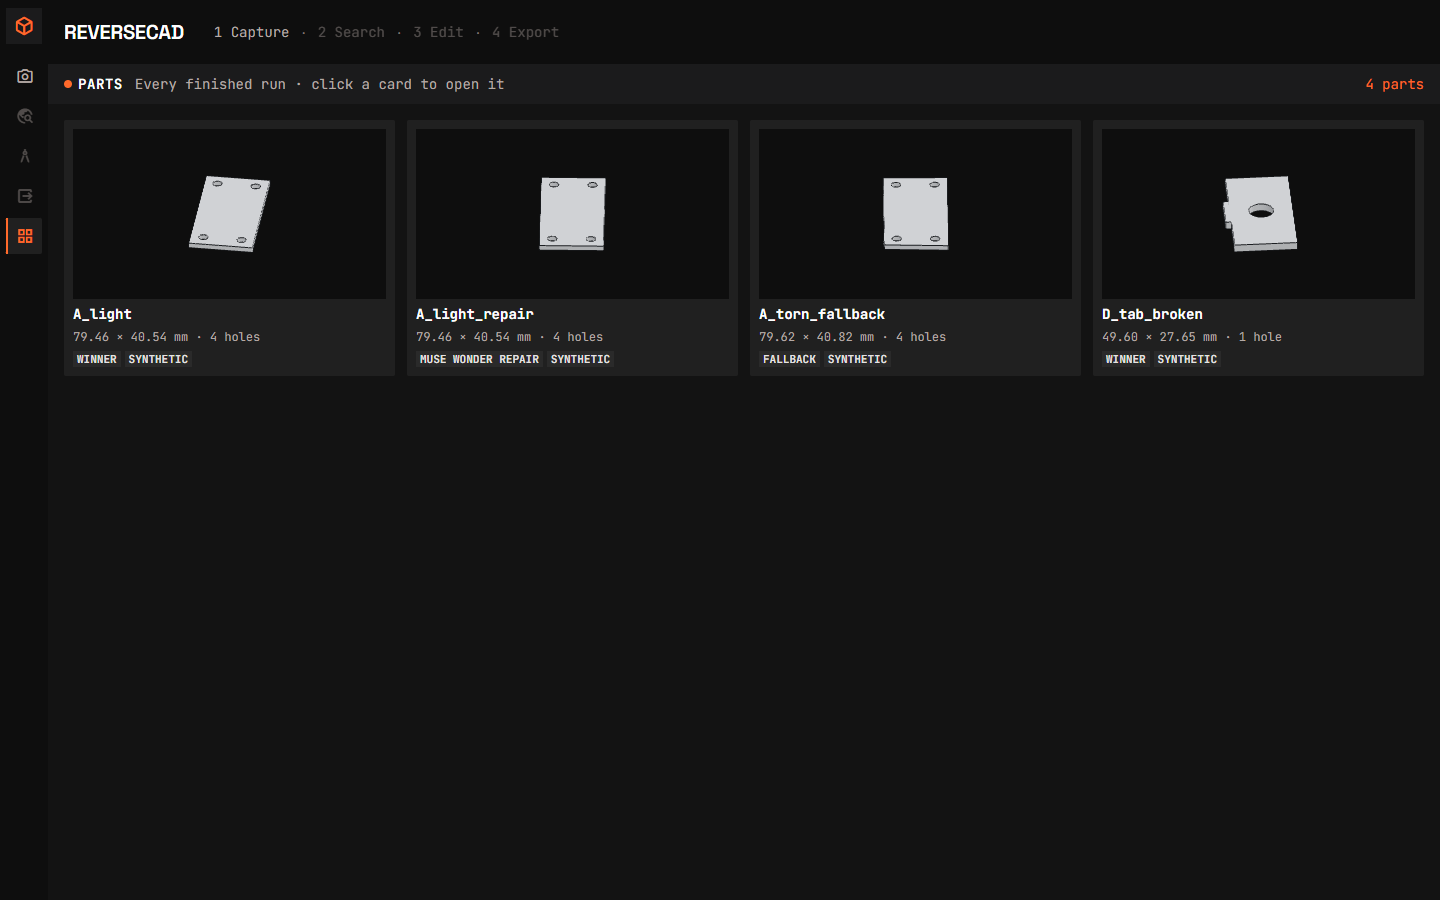
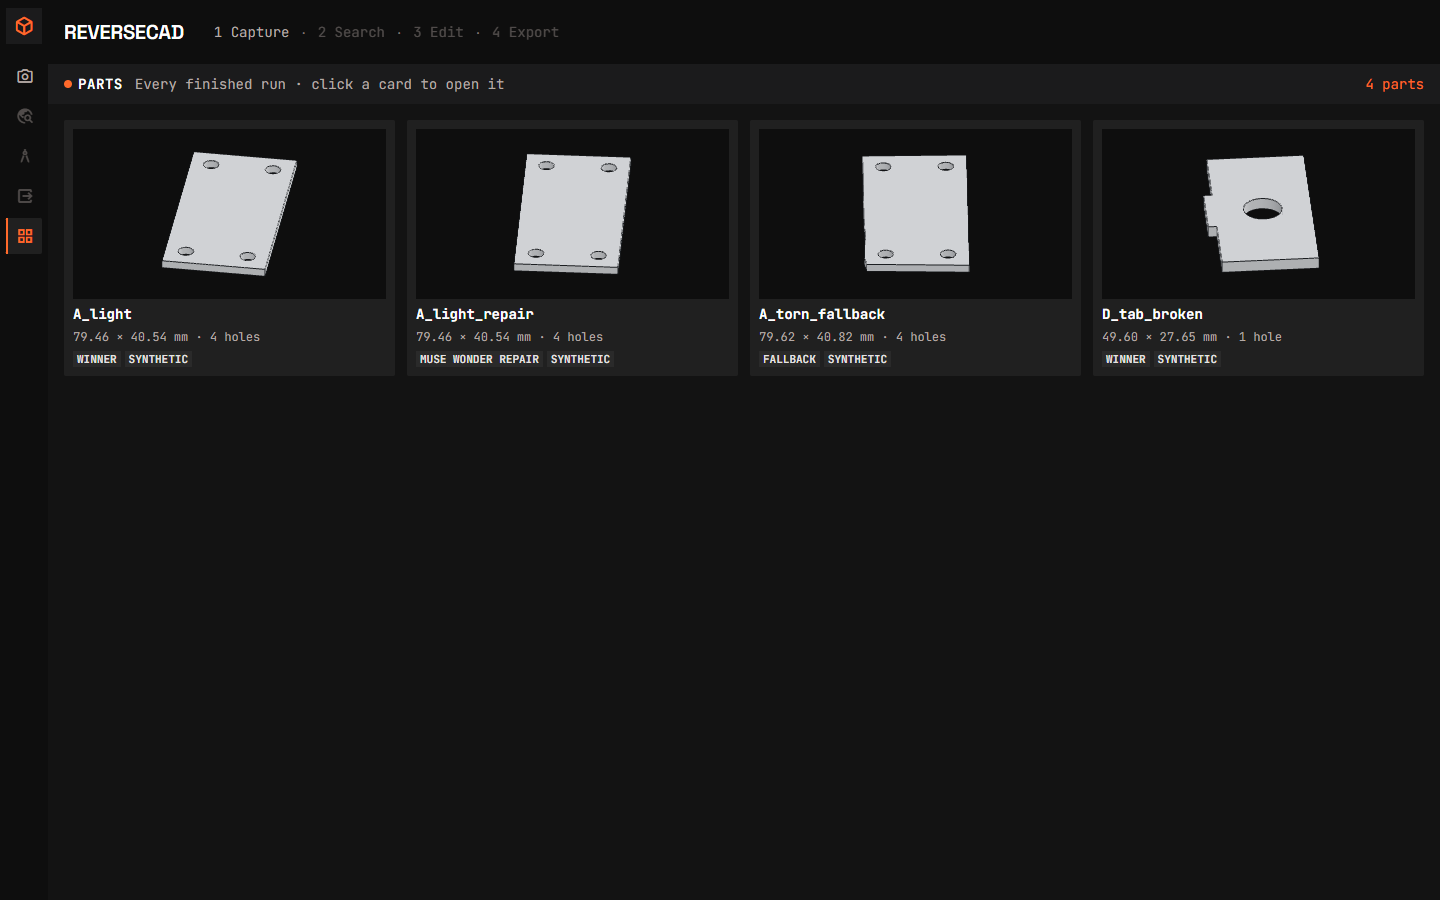
[muse-code] Gallery fixes: public.txt opt-in for live runs, 80% turntable framing

diff --git a/webapp/static/viewer.js b/webapp/static/viewer.js
@@ -354,15 +354,44 @@ export function createTurntable(container) {
   let part = null;
   let center = new THREE.Vector3();
   let radius = 1;
+  let frame = null;  // largest projected half-extents of the bounding box over a revolution
   let visible = true;
   const t0 = performance.now();
   const api = { show, setVisible, resize, dispose, tick };
+
+  function measureFrame() {
+    // How large the bounding box ever appears while the camera circles it: project its
+    // corners at 16 angles and keep the largest half-width (hw) and half-height (hh).
+    const box = new THREE.Box3().setFromObject(part);
+    const corners = [];
+    for (const x of [box.min.x, box.max.x])
+      for (const y of [box.min.y, box.max.y])
+        for (const z of [box.min.z, box.max.z]) corners.push(new THREE.Vector3(x, y, z).sub(center));
+    const probe = new THREE.OrthographicCamera(-1, 1, 1, -1, -5000, 5000);
+    probe.up.set(0, 0, 1);
+    const corner = new THREE.Vector3();
+    let hw = 0;
+    let hh = 0;
+    for (let i = 0; i < 16; i++) {
+      probe.position.copy(center).addScaledVector(
+        ISO.clone().applyAxisAngle(new THREE.Vector3(0, 0, 1), (i / 16) * Math.PI * 2), radius * 4);
+      probe.lookAt(center);
+      probe.updateMatrixWorld();
+      for (const offset of corners) {
+        corner.copy(offset).applyMatrix4(probe.matrixWorldInverse);
+        hw = Math.max(hw, Math.abs(corner.x));
+        hh = Math.max(hh, Math.abs(corner.y));
+      }
+    }
+    frame = { hw, hh };
+  }
 
   function fit() {
     const width = container.clientWidth || 300;
     const height = container.clientHeight || 170;
     renderer.setSize(width, height);
-    const half = radius * 1.2;  // air around the part; no labels to fit
+    // The widest projected extent fills 80% of the preview; nothing clips at any angle.
+    const half = Math.max(frame.hh, (frame.hw * height) / width) / 0.8;
     Object.assign(camera, { left: -half * width / height, right: half * width / height, top: half, bottom: -half });
     camera.updateProjectionMatrix();
   }
@@ -387,6 +416,7 @@ export function createTurntable(container) {
     center = box.getCenter(new THREE.Vector3());
     radius = box.getSize(new THREE.Vector3()).length() / 2;
     scene.add(part);
+    measureFrame();
     fit();
     render(performance.now());
     pokeTurntables();

diff --git a/tests/test_gallery.py b/tests/test_gallery.py
@@ -11,7 +11,7 @@ from webapp.server import app
 TABLE = {"outline": {"length_mm": 80.0, "width_mm": 40.0}, "holes": [{}, {}, {}]}
 
 
-def _write_run(folder, source="candidate", private=False, summary=True):
+def _write_run(folder, source="candidate", private=False, public=False, summary=True):
     folder.mkdir(parents=True)
     (folder / "3_measurements.json").write_text(json.dumps({"table": TABLE}), encoding="utf-8")
     if summary:
@@ -20,6 +20,8 @@ def _write_run(folder, source="candidate", private=False, summary=True):
                         "result_source": source}), encoding="utf-8")
     if private:
         (folder / "private.txt").write_text("Private: test marker\n", encoding="utf-8")
+    if public:
+        (folder / "public.txt").write_text("Public: test marker\n", encoding="utf-8")
 
 
 def test_card_fields_come_from_saved_files(tmp_path, monkeypatch):
@@ -41,8 +43,33 @@ def test_source_labels(tmp_path, monkeypatch):
 
 def test_live_name_means_real_photo(tmp_path, monkeypatch):
     monkeypatch.setattr(replay, "SOURCES", [tmp_path])
-    _write_run(tmp_path / "live-20990101-000000-abcdef")
+    _write_run(tmp_path / "live-20990101-000000-abcdef", public=True)
     assert gallery.card("live-20990101-000000-abcdef")["kind"] == "Real photo"
+
+
+def test_live_run_needs_public_marker(tmp_path, monkeypatch):
+    """Privacy is opt-in: a local upload without public.txt stays out of the gallery."""
+    monkeypatch.setattr(replay, "SOURCES", [tmp_path])
+    _write_run(tmp_path / "live-20990101-000000-abcdef")
+    _write_run(tmp_path / "live-20990102-000000-abcdef", public=True)
+    assert gallery.card("live-20990101-000000-abcdef") is None
+    assert gallery.card("live-20990102-000000-abcdef")["kind"] == "Real photo"
+    assert [c["name"] for c in gallery.gallery_runs()] == ["live-20990102-000000-abcdef"]
+
+
+def test_private_wins_over_public(tmp_path, monkeypatch):
+    """Both markers: the run stays out."""
+    monkeypatch.setattr(replay, "SOURCES", [tmp_path])
+    _write_run(tmp_path / "live-20990101-000000-abcdef", private=True, public=True)
+    assert gallery.card("live-20990101-000000-abcdef") is None
+    assert gallery.gallery_runs() == []
+
+
+def test_template_run_needs_no_marker(tmp_path, monkeypatch):
+    """A local template-scene run (not live-*) shows without any marker."""
+    monkeypatch.setattr(replay, "SOURCES", [tmp_path])
+    _write_run(tmp_path / "plate")
+    assert gallery.card("plate")["kind"] == "Synthetic"
 
 
 def test_private_marker_excludes(tmp_path, monkeypatch):

diff --git a/webapp/gallery.py b/webapp/gallery.py
@@ -1,10 +1,12 @@
 """Parts gallery: every finished run as a card (GET /api/parts).
 
-Samples are always listed; local runs too, unless their folder holds a private.txt
-marker (a photo from data/private/ must never appear in the gallery). In demo mode
-this is samples-only, because the server narrows replay.SOURCES to samples/.
-New run folders show up with no code changes. Only values saved in the run are
-shown; unfinished runs (no result program) are skipped, never guessed.
+Samples are always listed. Local template-scene runs too, unless their folder holds
+a private.txt marker. A local live-* run (an uploaded photo) is shown only when its
+folder holds a public.txt marker: privacy is opt-in. private.txt always wins over
+public.txt. In demo mode this is samples-only, because the server narrows
+replay.SOURCES to samples/. New run folders show up with no code changes. Only
+values saved in the run are shown; unfinished runs (no result program) are
+skipped, never guessed.
 """
 import json
 from pathlib import Path
@@ -12,11 +14,22 @@ from pathlib import Path
 from webapp import replay
 
 PRIVATE_MARKER = "private.txt"  # a run folder holding this file stays out of the gallery
+PUBLIC_MARKER = "public.txt"  # a local live-* run needs this file to be shown
 
 
 def is_private(folder):
     """A run is private when its folder carries the marker (see module docstring)."""
     return (Path(folder) / PRIVATE_MARKER).exists()
+
+
+def is_public(folder):
+    """A run is opted in when its folder carries the public marker (live-* runs only)."""
+    return (Path(folder) / PUBLIC_MARKER).exists()
+
+
+def _is_sample(folder):
+    """A run folder inside samples/ (committed examples, always listed)."""
+    return Path(folder).resolve().parent == replay.SAMPLES_DIR.resolve()
 
 
 def source_label(source):
@@ -39,7 +52,9 @@ def card(name):
     try:
         folder = replay.run_dir(name)
         if is_private(folder):
-            return None
+            return None  # private wins over public
+        if name.startswith("live-") and not _is_sample(folder) and not is_public(folder):
+            return None  # a local upload stays out unless opted in with public.txt
         table = json.loads((folder / "3_measurements.json").read_text(encoding="utf-8"))["table"]
         # result_program raises when there is no result, so a missing source means a plain
         # winner (the same default as done_event).

diff --git a/CLAUDE.md b/CLAUDE.md
@@ -343,3 +343,4 @@ Phone photos are often saved sideways and rotated via an EXIF tag. SAM gives coo
 - [x] **Demo video, part B: photo-to-3D transitions** (2026-11-01): orange scan line sweeps the photo while SAM 3.1 runs (live) or for 900 ms (replay); the real mask contour draws itself progressively, then dimension lines fade in with final numbers (900 ms, `playMeasureIntro`, `polygon` progress); every candidate card shows the reference mask dimmed behind the real silhouette (`/api/runs/{name}/reference.png`), rejected/failed cards fade to 0.15 with their plain-word reason staying, the winner highlights; on model-ready the real part rises flat→full-thickness while the camera swings top→iso (1100 ms, `viewer.js` `riseFromTop`). All animations are non-blocking (zero added waiting), real-data-only, dark theme with the #FF6A2B accent, `prefers-reduced-motion` respected. Verified on mid-animation frames: partial orange contour + scanline, flat part from steep angle vs final iso with thickness, A_light_repair shows two faded REJECTED cards with reasons and the R1 winner. reports/ui/ after set refreshed (search only; measure/edit finals unchanged). Tests: 243 passed, 1 skipped; node --check clean.
 - [x] **Demo video, part C: 3D label fixes** (2026-11-01): adapter 3D hole labels no longer overlap — each diameter group pins to its own front-most hole with its own leader, stack step doubled (measured 117.9 × 11.3 px overlap → 0 overlapping pairs in A_light adapter/cover/spacer/edit views); adapter header shows the single label "Outline: Muse Spark Open" instead of "Source: Outline: …" (cover/spacer keep "Source: built part, no model"). reports/ui/A_light_adapter.png refreshed (now the cached 80 × 42 outline, min margin 5.3; one fresh 3-candidate Spark outline search on the first screenshot, 3/3 passed, ~$0.033 at the unverified price, later runs cached). Tests: 243 passed, 1 skipped; node --check clean.
 - [x] **Parts gallery** (2026-11-01): new "Parts" screen from the left sidebar: a card per finished run with a slowly rotating 3D preview of its result model (one revolution per 14 s, `createTurntable` in `viewer.js` with one shared animation loop; turntables are created when scrolled into view and disposed when scrolled away, so 10+ cards stay smooth), run name, outline size and hole count from the saved measurements, result source (Winner / Muse Wonder repair / Completion applied / Fallback) and a Synthetic / Real photo label (`live-` uploads count as real photos; the one exception is the Oct 28 synthetic test upload). Click a card to open the run in the replay flow's edit screen. Server: `GET /api/parts` (`webapp/gallery.py`) scans `samples/` plus local `outputs/e2e/` runs, skipping folders with a `private.txt` marker and unfinished runs (no result program); demo mode is samples-only via the narrowed `SOURCES`. Privacy: all 13 local live runs were checked pixel-by-pixel against `data/private/` — 11 matched and carry a marker with the photo path, the real key photo without a match is marked too, the synthetic test upload is not. Static with `prefers-reduced-motion` (verified: preview pixels move by default, identical with reduce). Shot: `reports/ui/A_parts.png` (demo, 4 samples); locally 12 cards, zero console errors. Tests: 252 passed, 1 skipped (9 new in `tests/test_gallery.py`); node --check clean.
+- [x] **Parts gallery fixes** (2026-11-02): privacy is opt-in — a local `live-*` run shows only with a `public.txt` marker in its folder, samples stay always visible, demo stays samples-only, `private.txt` still blocks and wins over `public.txt` (locally 11 cards now; the unmarked synthetic test upload is hidden). Turntable previews are fitted to the model's bounding box projected over a full revolution, filling about 80% of the card at the widest angle with no clipping. `reports/ui/A_parts.png` refreshed. Tests: 255 passed, 1 skipped; node --check clean.
